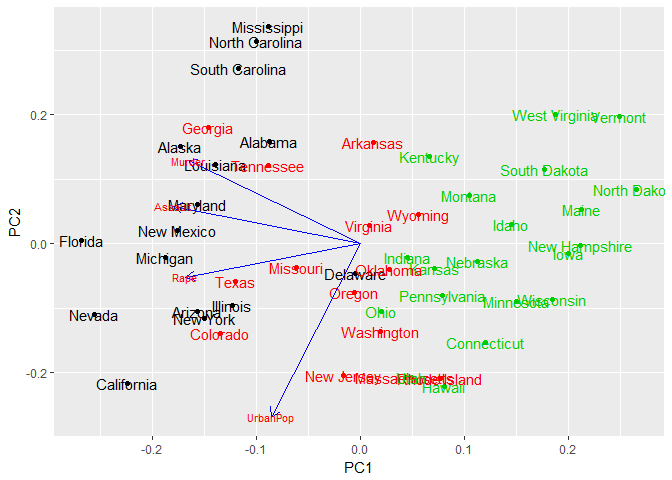
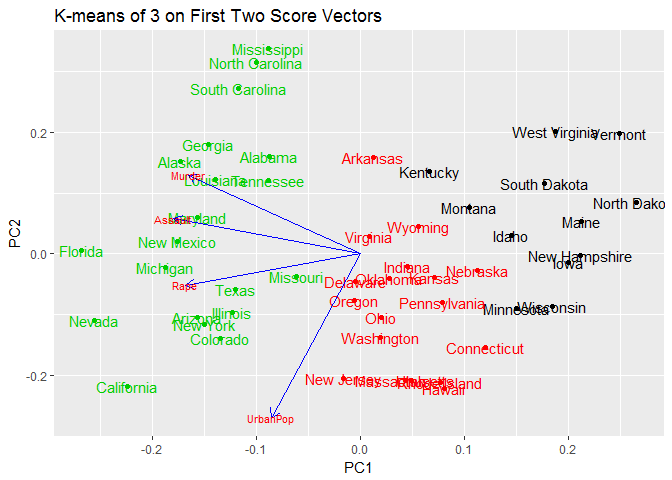
final version of EDA_2

diff --git a/students/zheng_weiwei/EDA_2/Unsuperized_learning.md b/students/zheng_weiwei/EDA_2/Unsuperized_learning.md
@@ -25,7 +25,7 @@ library(ggfortify)
     ## by .GlobalEnv when processing object 'call.'
 
 ``` r
-College <- read_csv("~/persp-analysis/assignments/unsupervised-learning/data/College.csv")
+College <- read_csv("~/Desktop/persp-analysis/assignments/unsupervised-learning/data/College.csv")
 ```
 
     ## Parsed with column specification:
@@ -52,7 +52,7 @@ College <- read_csv("~/persp-analysis/assignments/unsupervised-learning/data/Col
 
 ``` r
 College.data <- College[,-1,drop=FALSE] 
-USArrests.data <- read_csv("~/persp-analysis/assignments/unsupervised-learning/data/USArrests.csv")
+USArrests.data <- read_csv("~/Desktop/persp-analysis/assignments/unsupervised-learning/data/USArrests.csv")
 ```
 
     ## Parsed with column specification:
@@ -71,16 +71,11 @@ PART A
 
 ``` r
 pr.college<-prcomp(College.data, scale = TRUE) 
-biplot(pr.college, scale = 0, pch = 0.2)
+autoplot(pr.college, data = College.data, label = FALSE, loadings = TRUE, loadings.colour = 'blue',
+         loadings.label = TRUE, loadings.label.size = 3)
 ```
 
 ![](Unsuperized_learning_files/figure-markdown_github-ascii_identifiers/unnamed-chunk-2-1.png)
-
-``` r
-autoplot(pr.college)
-```
-
-![](Unsuperized_learning_files/figure-markdown_github-ascii_identifiers/unnamed-chunk-3-1.png)
 
 ``` r
 theta <- seq(0,2*pi,length.out = 100)
@@ -94,7 +89,7 @@ p + geom_text(data=loadings,
   labs(x = "PC1", y = "PC2")
 ```
 
-![](Unsuperized_learning_files/figure-markdown_github-ascii_identifiers/unnamed-chunk-4-1.png)
+![](Unsuperized_learning_files/figure-markdown_github-ascii_identifiers/unnamed-chunk-3-1.png)
 
 (The data needs scale = TRUE otherwise the result would be very hard to read and become meaningless. I did what is suggested by the textbook, which I think is more credible.) The first principal component is associated with variables including "Grad.rate", "Top20perc", "Top25perc", "Phd", "per.alumini", "Expend" and "Terminal", which stores the ahievement and prestige of colleges. The second principal component is associated with "F.undergrad", "P.undergrad", "Accept" and "Enroll", which stores information of current performance of schools.
 
@@ -137,7 +132,7 @@ autoplot(pr.arrest, data = USArrests.data, label = TRUE, loadings = TRUE, loadin
          loadings.label = TRUE, loadings.label.size = 3)
 ```
 
-![](Unsuperized_learning_files/figure-markdown_github-ascii_identifiers/unnamed-chunk-6-1.png)
+![](Unsuperized_learning_files/figure-markdown_github-ascii_identifiers/unnamed-chunk-5-1.png)
 
 ``` r
 theta <- seq(0,2*pi,length.out = 100)
@@ -151,7 +146,7 @@ p + geom_text(data=loadings,
   labs(x = "PC1", y = "PC2")
 ```
 
-![](Unsuperized_learning_files/figure-markdown_github-ascii_identifiers/unnamed-chunk-7-1.png)
+![](Unsuperized_learning_files/figure-markdown_github-ascii_identifiers/unnamed-chunk-6-1.png)
 
 **2.Perform *K*-means clustering with *K* = 2. Plot the observations on the first and second principal components and color-code each state based on their cluster membership. Describe your results.**
 
@@ -168,7 +163,7 @@ autoplot(pr.arrest, data = USArrests.data, label = TRUE, col = km2.clusters, loa
     ## Warning in if (value %in% columns) {: the condition has length > 1 and only
     ## the first element will be used
 
-![](Unsuperized_learning_files/figure-markdown_github-ascii_identifiers/unnamed-chunk-8-1.png) (Order from left to right) The first component mostly stores information about murder, assault and rape, with California, Nevada, Florida highly positively associated with it and Vermont, North Dakota, Maine, Iowa, New Hampshire negatively. The second component mostly stores information about urban population, with New Jersey, Massachusetts, Hawaii, and Rhode Island highly positively associated, and West Virginia, South Carolina, North Carolina and Mississippi negatively associated with it. The first cluster mostly includes states with high crime rate while the second low crime rate.
+![](Unsuperized_learning_files/figure-markdown_github-ascii_identifiers/unnamed-chunk-7-1.png) (Order from left to right) The first component mostly stores information about murder, assault and rape, with California, Nevada, Florida highly positively associated with it and Vermont, North Dakota, Maine, Iowa, New Hampshire negatively. The second component mostly stores information about urban population, with New Jersey, Massachusetts, Hawaii, and Rhode Island highly positively associated, and West Virginia, South Carolina, North Carolina and Mississippi negatively associated with it. The first cluster mostly includes states with high crime rate while the second low crime rate.
 
 **3.Perform *K*-means clustering with *K* = 4. Plot the observations on the first and second principal components and color-code each state based on their cluster membership. Describe your results.**
 
@@ -184,7 +179,7 @@ autoplot(pr.arrest, data = USArrests.data, label = TRUE, col = km4.clusters, loa
     ## Warning in if (value %in% columns) {: the condition has length > 1 and only
     ## the first element will be used
 
-![](Unsuperized_learning_files/figure-markdown_github-ascii_identifiers/unnamed-chunk-9-1.png)
+![](Unsuperized_learning_files/figure-markdown_github-ascii_identifiers/unnamed-chunk-8-1.png)
 
 The firs cluster includes states of high crime rate. The second cluster includes states of medium high crime rate and medium population size. The third cluster includes states of low crime rate and medium population size. The fourth group includes states of low crime rate and medium low population size.
 
@@ -202,7 +197,7 @@ autoplot(pr.arrest, data = USArrests.data, label = TRUE, col = km3.clusters, loa
     ## Warning in if (value %in% columns) {: the condition has length > 1 and only
     ## the first element will be used
 
-![](Unsuperized_learning_files/figure-markdown_github-ascii_identifiers/unnamed-chunk-10-1.png) The first clustering includes states with high crime rate. The second clustering inlcudes states with medium crime rate and medium population size. The third inclues states with low crime rate and medium population size.
+![](Unsuperized_learning_files/figure-markdown_github-ascii_identifiers/unnamed-chunk-9-1.png) The first clustering includes states with high crime rate. The second clustering inlcudes states with medium crime rate and medium population size. The third inclues states with low crime rate and medium population size.
 
 **5.Perform K-means clustering with K=3 on the first two principal components score vectors, rather than the raw data. Describe your results and compare them to the clustering results with K=3 based on the raw data.**
 
@@ -218,7 +213,7 @@ autoplot(pr.arrest, data = USArrests.data, label = TRUE, col = km3new.clusters, 
     ## Warning in if (value %in% columns) {: the condition has length > 1 and only
     ## the first element will be used
 
-![](Unsuperized_learning_files/figure-markdown_github-ascii_identifiers/unnamed-chunk-11-1.png)
+![](Unsuperized_learning_files/figure-markdown_github-ascii_identifiers/unnamed-chunk-10-1.png)
 
 ``` r
 table(km3.clusters,km3new.clusters)
@@ -244,7 +239,9 @@ arrest.dist <- dist(USArrests.data)
 plot(hclust(arrest.dist), labels = USArrests.data$State , main =" Complete Linkage ", xlab ="", sub ="", ylab ="")
 ```
 
-![](Unsuperized_learning_files/figure-markdown_github-ascii_identifiers/unnamed-chunk-13-1.png) **7.Cut the dendrogram at a height that results in three distinct clusters. Which states belong to which clusters?**
+![](Unsuperized_learning_files/figure-markdown_github-ascii_identifiers/unnamed-chunk-12-1.png)
+
+**7.Cut the dendrogram at a height that results in three distinct clusters. Which states belong to which clusters?**
 
 ``` r
 hc.out<-hclust(arrest.dist)
